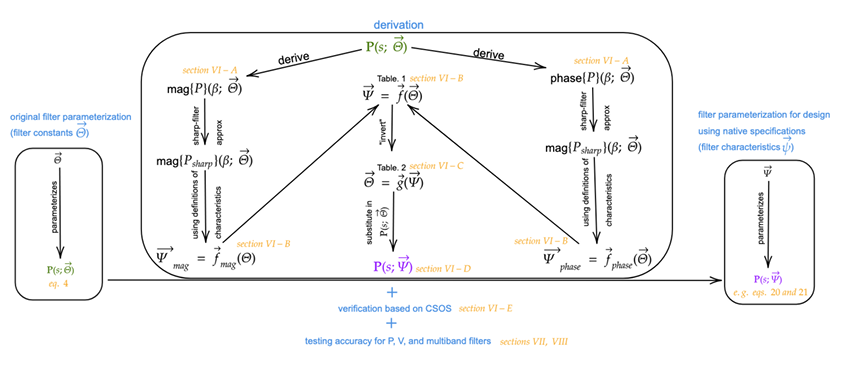
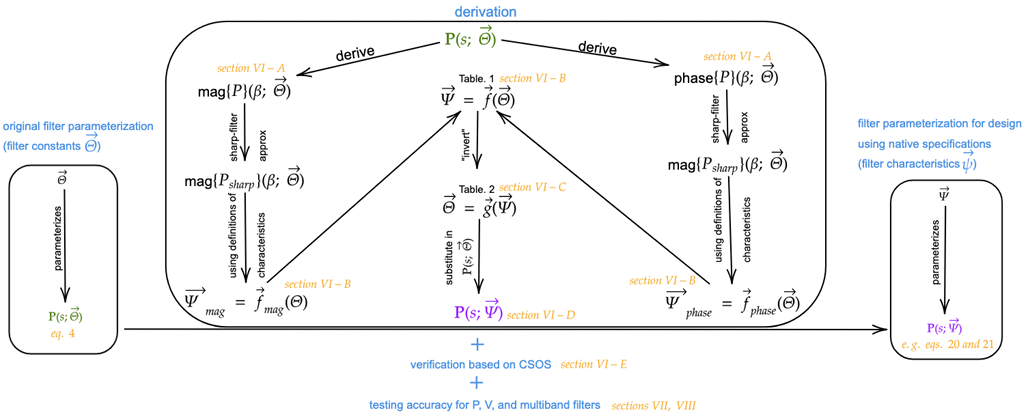
Updated README.md

diff --git a/README.md b/README.md
@@ -1,5 +1,5 @@
 # GEFs
-The toolbox has been primarily developed for filter design and signal processing and analysis purposes as well as for the scientific study of the auditory system pertaining to the cochlea and perceptual studies. The toolbox has been developed such that users with interests and backgrounds in only one of the aforementioned fields may use it without concerning themselves with other functionalities.
+The toolbox has been primarily developed for filter design and signal processing and analysis purposes abd it can be used for various applications such as the scientific study of the auditory system pertaining to the cochlea and perceptual studies. The toolbox has been developed such that users with interests and backgrounds in only one of the aforementioned fields may use it without concerning themselves with other functionalities.
 
 ## Capabilities for Filter Design and Filtering
 This toolset includes functionalities for filter construction and signal processing using filters for arbitrary filters and signals. It also includes filter design functionalities specific to a class of bandpass filters (referred to as GEFs) and related classes of bandpass filters, multiband filters, and filterbanks. GEFs are bandpass LTI filters with a pair of poles repeated $B_u$ times.
@@ -10,42 +10,62 @@ More details are provided later as well as in the documentation, but in summary,
 * Parameterized filters may be constructed using the parameterized model in [1] as well as user-inputted constants.
 * Multiband filters can be constructed by providing lists of constants or filter characteristics.
 * Filterbanks can be constructed by inputting lists of constants or filter characteristics *or* filters. Arbitrary topologies can be implemented, but default options for parallel and series are providd.
-* Cochleas are instances of filterbanks with various additional cochlear characteristics attached.
-* Signals are treated as distinct objects and can be fed into filters/filterbanks/cochleas.
+* Signals are treated as distinct objects and can be fed into filters/filterbanks.
 * Everything has various plotting options, especially base filters and signals.
 
 ## Design of GEFs
 * GEFs, also known as Generalized Auditory Filters (GAFs), allow filter design throguh specifying filter characeristics such as peak frequencies, quality factors, and group delays. This is as opposed to filter design based on the complex frequency response or its magnitudes or amplitude over a length of frequencies. This can be extended to filterbanks
 * Though transfer functions frequently have integer orders, GEFs can be have rational exponents, better approximating a continuum of filter characteristics and allowing for finer control of said characteristics.
 
-## Capabilities for Studying Auditory Physics and Cochlear Mechanics
-* Variables of the cochlear model include (1) response variables (which are related to the filters) that may in principle be observed in some species: differential pressure across the OoC, and OoC velocity, as well (2) mechanistic variables which contain information how the model works: the differential pressure wavenumber, and the effective impedance of the OoC.
-* A user may specify a species (human or chinchilla) or model constants that vary slowly along the length of the cochlea to generate the mechanistic variables and functional response variables.
-* A user may study the dependence of mechanistic variable behavior on observed response characteristics.
-* Alternatively, given reported response characteristics such as quality factors and group delays, the methods can be used to estimate the underlying mechanistic variables which encode properties of interest to auditory physicists such as negative effective damping. This feature is related to the filter design methods mentioned above where desired values for characteristics are provided to design filters (which map onto to response variables in the cochlear model).
-* A user may be interested in the model variables from a traveling wave perspective (as a function of $x$ for a constant $\omega$) or from a transfer function perspective (as a function of $\omega$ for a constant $x$). The two perspectives are tied together via an assumption of local scaling symmetry of the wavenumber.
-* _Key Assumptions:_ The cochlear model is related to the filterbank and assumes an uncoiled box model of the cochlea with a single partition for the Organ of Corti (OoC). The model is developed based on observations from the response of the active mammalian cochlea to low stimulus levels (and hence linear). The derivation also assumes local scaling symmetry of the wavenumber - i.e. the model constants or filter characteristics such as quality factors vary slowly along the length of the cochlea. Additionally, the scaling factor due to the long-wave region (which is not modeled) is assumed to be frequency independent relative to the model and the magnitudes are adjusted to all have the same peak magnitude.
-
 ## Tutorials and Documentation
-* Documentation for the toolbox is in `documentation.pdf`. Example Python plots in the documentation are generated using `demo_alkhairy2019.py`, along with some additional computational examples. Uncomment the ones as needed to demonstrate capabilities, e.g. `outputsignal_autocorrelates()`, `outputsignal_correlate_with()`, and `outputsignals_correlogram()` together show various correlation plots involving the output signals from a filterbank. Similar, the example MATLAB plots in the documentation and some additional computations are in `demo_alkhairy.m`. These tests illustrate a comprehensive set of the toolbox's capabilities.
-* The first half of `plot_tutorial.py`, `alkhairy2019.m`, and `alkhairy2019.m` generate some of the figures in [1] and [2] are are of the greatest interest to those in auditory physics and modeling cochlear mechanisms.
-* The second half of `plot_tutorial.py`, `alkhairy2024.m`, and `alkhairy2024rat.m` generate some of the figures in [3] and [4] and are of the greatest interest to those in signal processing and filter design.
-
+* Documentation for the toolbox is in `documentation.pdf`. Example Python plots in the documentation are generated using `GEFs_alkhairy.py`, along with some additional computational examples. Uncomment the ones as needed to demonstrate capabilities, e.g. `outputsignal_autocorrelates()`, `outputsignal_correlate_with()`, and `outputsignals_correlogram()` together show various correlation plots involving the output signals from a filterbank. Similar, the example MATLAB plots in the documentation and some additional computations are in `GEFs_alkhairy.m`. These tests illustrate a comprehensive set of the toolbox's capabilities.
+* `plot_tutorial.py`, `alkhairy2024.m`, and `alkhairy2024rat.m` generate some of the figures in [3] and [4] and are of the greatest interest to those in signal processing and filter design.
 
 ## Requirements for Running the Toolbox
-The toolbox may be used in Python or MATLAB. In either case, you will need to install Python along with required libraries which are listed in `requirements.txt`.
 
-To install the requirements, run the following in Python 3,
+### 1. Python Environment
+The toolbox may be used in Python or MATLAB. In either case, you will need to install **Python 3.12** **[[Link]](https://www.python.org/downloads/release/python-3128/)**.
+This can be done globally or using a virtual environment - e.g. [see here](https://dev.to/emminex/how-to-install-python-libraries-in-visual-studio-code-38i1).
+
+### 2. Installing Refactoring Branch of GEFs Toolbox
+
+#### 2.1. Installation via Python Via Terminal (PowerShell/PyCharm)
+For users working in Python, it is highly recommended to run these commands via Terminal (PowerShell/PyCharm):
+
+```
+pip install setuptools wheel
+pip install --no-build-isolation git+https://github.com/AnalyticModeling/GEFs.git@Refactoring
+```
+
+#### 2.2. Installation via MATLAB (command Window)
+To use the model's features within MATLAB, The GEFs toolbox Refactoring branch must be cloned :
+
+```
+!git clone -b Refactoring https://github.com/AnalyticModeling/GEFs.git
+```
+
+### 3. Libraries Installation
+To install the necessary dependencies, navigate to the project folder and run the following command in your terminal:
 
 ```
 $ pip install -r requirements.txt
 ```
 
-This can be done globally or using a virtual environment - e.g. [see here](https://dev.to/emminex/how-to-install-python-libraries-in-visual-studio-code-38i1).
-
 ## Contributing
-<!-- Before submitting a pull request, please run the tutorial files `tutorial.py`, `alkhairy2019.m`, and `alkhairy2024.m` to make sure that the changes do not break the code. Future releases may include dedicated unit tests. -->
-Before submitting a pull request, please run the tutorial files `demo_alkhairy.py` and `demo_alkhairy.m` to make sure that the changes do not break the code. Future releases may include dedicated unit tests.
+
+please complete the following validation steps before submitting a pull request:
+
+### Python Validation
+The Python implementation includes a unit testing suite located in the `tests/` directory.
+* **Run Unit Tests:** Execute all files within the `tests/` folder. Ensure the output for each test is "Passed" or as expected. 
+    * *Note: There is currently one known minor test failure; please ensure your changes do not introduce any additional regressions.*
+* **Run Demo:** Execute `demo_GEFs.py` to verify that the core model visualizations and functionalities remain intact.
+
+### MATLAB Validation
+please manually verify the MATLAB implementation to ensure changes do not break the logic:
+* Run `alkhairy2024.m` and `alkhairy2024rat.m` to check for execution errors.
+* **Run Demo:** Execute `demo_GEFs.m` and confirm the output matches the expected physiological behavior.
+
 
 ## Contributors
 Wayne Zhao
@@ -64,14 +84,8 @@ Supervisor: Samiya Alkhairy
 
 ### General Filters and Signals: Constructing Arbitrary Filters and Multiband Filters
 * Arbitrary filters may be constructed - e.g. using provided poles and zeros or by provided a transfer function, then used for filtering any signal.
-* Parameterized filters using the parameterized model in [1] representing cochleas are constructed with the transfer function (in terms of $s$) $C\frac{1}{((s-p)(s-\overline{p}))^{B_u}}$ when modeling pressure and $C\frac{(s+A_p)}{((s-p)(s-\overline{p}))^{B_u+1}}$ when modeling velocity, where $p = ib_p-A_p$. The variables $A_p$, $b_p$, and $B_u$ can be directly inputted into the model, while $C$ can be inputted in two different ways.
 * Parameterized filters may also be constructed by specifying the resulting characteristics a filter is supposed to be have (e.g. bandwidth), and the program will estimate appropriate original constants.
 * Multiband filters can be constructed from providing lists of constants/characteristics
-
-### General Filters and Signals: Filterbanks and Cochleas
-* Filterbanks are treated as graphs on filters. The most common filterbanks will have filters in series or parallel.
-* Cochleas are examples of filterbanks with extra functionality attached. They may also be specified by providing only a species, in which case default values are used.
-![Figure 3 from paper (1)][/Python_figures/2019_fig3.png]
 
 ### General Filters and Signals: Filtering
 * A signal provided as a time-series or a frequency response may be inputted into a constructed or designed filter, filterbank, or multiband filter.
@@ -81,7 +95,12 @@ Supervisor: Samiya Alkhairy
 ### General Filters and Signals: Signal Analysis and Plots
 * The toolbox includes functionalities for any signal such as autocorrelation and envelope extraction.
 * Filterbanks with constitutive filters - each with a different peak frequency, may be used to generate outputs. Plots include the envelope of the output signals as a function of time and peak frequency.
-![Figure 5 from paper (1)][/Python_figures/2019_fig5.png]
+
+<p align="center">
+  <img src="images/Fig5_2019.png" width="450">
+  <br>
+  <em>Figure 5 from paper [1].</em>
+</p>
 
 ## More details on GEFs and their design motivations
 
@@ -90,12 +109,22 @@ Supervisor: Samiya Alkhairy
 * The characteristics-based design method is direct, non-iterative, highly-accurate for sharp filters, and allows for designing sharp filters with minimal delay.
 * The characteristics-based design methods extends beyond GEFs to related bandpass filters (see [3]) as well as to filterbanks and bandpass filters and may be used for adaptive filtering based on variable filter design.
 * The accuracy in achieving the desired specifications on filter characteristics is assessed.
-![Figure 5 from paper (3)][/Python_figures/2024_fig5.png]
+
+<p align="center">
+  <img src="images/Fig5_2024.png" width="500">
+  <br>
+  <em>Figure 5 from paper [3].</em>
+</p>
 
 ### GEFs: Designing and Filtering with Rational Exponent Filters (Rational GEFs)
 * In order to access a continuum of filter characteristics, GEFs may have rational exponents rather than being constraint to discrete filter behavior.
 * The toolbox includes various solution methods for filtering using rational GEFs.
-![Figure 1 from paper (3)][/Python_figures/2024_fig3.png]
+
+<p align="center">
+  <img src="images/Fig1_2024.png" width="800">
+  <br>
+  <em>Figure 1 from paper [3].</em>
+</p>
 
 ### GEFs: Potential Signal Processing Applications for GEFs
 * Potential applications may benefit from the direct specification over desired characteristics as well as the fine control over the characteristics enabled by the rational exponents primarily include those that make use of bandpass filterbanks and multiband filters. Such applications may include: parameteric equalizers, a front end for speech processing, microseismic signal analysis, and signal classification. <!-- XXX INSERT.  -->
